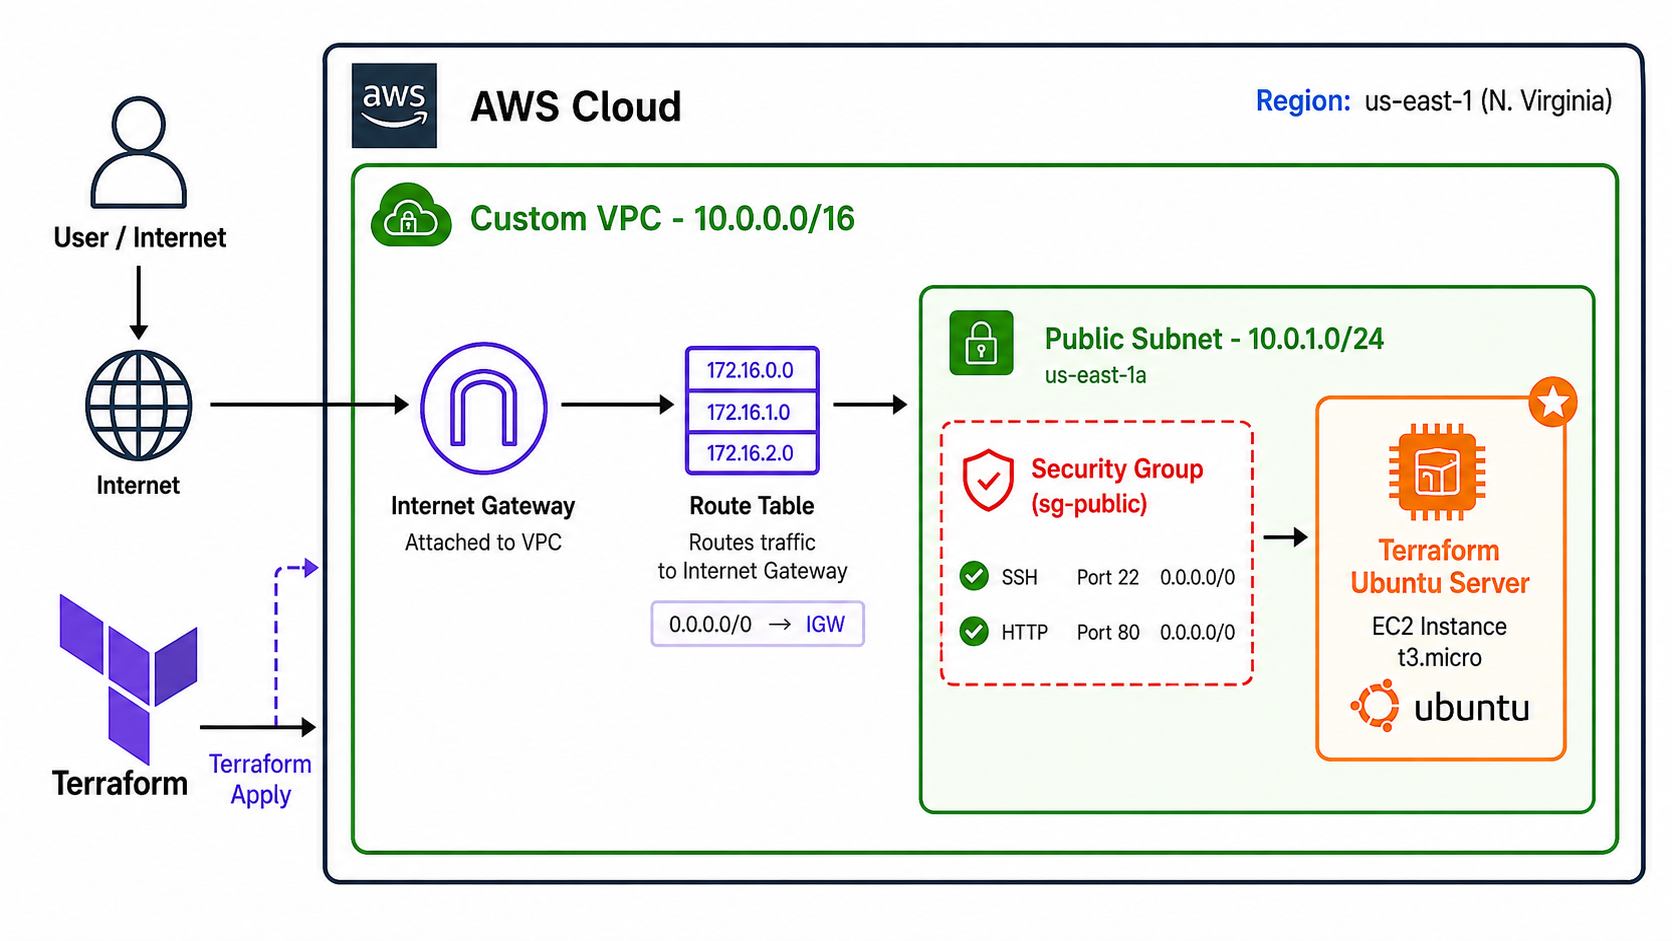
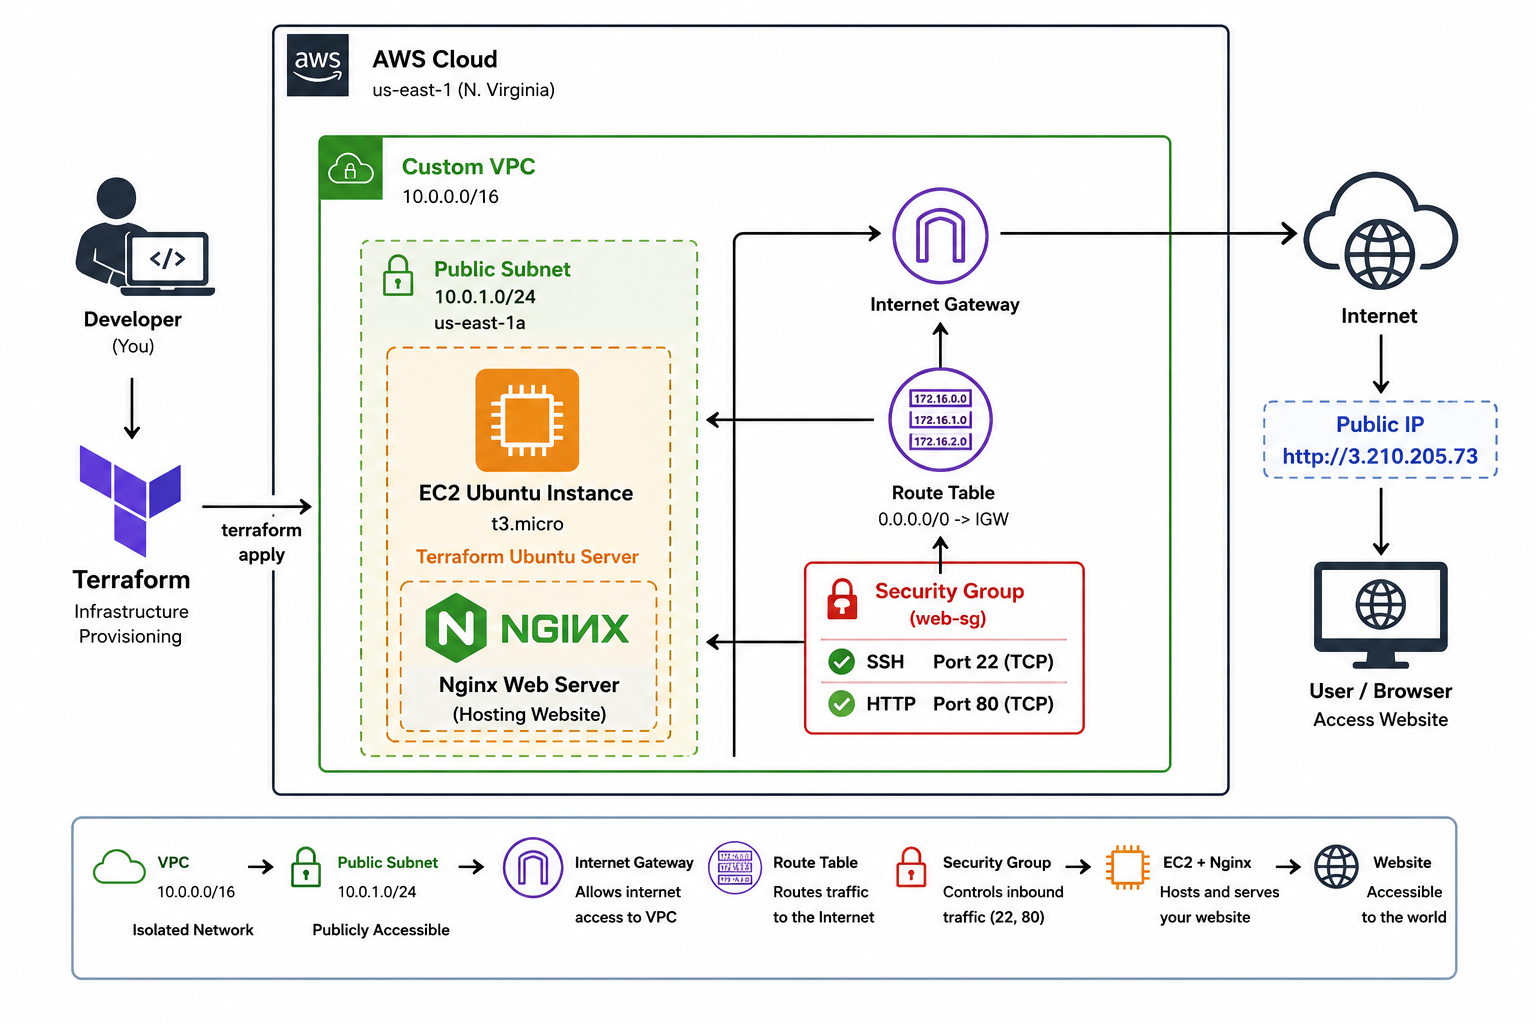
Updated README, architecture diagram, and deployment screenshots

Changed region(s): [[0.0312, 0.0, 1.0, 0.9554], [0.7188, 0.4315, 0.75, 0.4623]]

diff --git a/README.md b/README.md
@@ -1,8 +1,8 @@
-Terraform AWS VPC with Public Subnet and EC2 Instance :
+Terraform AWS VPC with Public Subnet, EC2 and Nginx Web Server :
 
 1) Project Overview :
 
-This project demonstrates how to provision AWS cloud infrastructure using Terraform.
+This project demonstrates how to provision AWS cloud infrastructure using Terraform. The infrastructure includes a custom VPC, public subnet, internet gateway, route table, security group, EC2 Ubuntu instance, and Nginx web server. I also deployed and hosted a basic website on the EC2 instance using Nginx. The goal of this project is to understand Infrastructure as Code (IaC), AWS networking, and automated cloud infrastructure deployment using Terraform. |
 
 The infrastructure includes:
 
@@ -12,6 +12,7 @@ The infrastructure includes:
 - Route Table
 - Security Group
 - EC2 Ubuntu Server
+- Nginx Web Server
 
 The goal of this project is to understand Infrastructure as Code (IaC) concepts and automate AWS resource creation using Terraform.
 
@@ -21,9 +22,10 @@ The goal of this project is to understand Infrastructure as Code (IaC) concepts 
 - AWS                =     Cloud Platform
 - VPC                =     Network Isolation
 - EC2                =     Virtual Server
-- Security Groups    =   Firewall Rules
+- Security Groups    =     Firewall Rules
 - VS Code            =     Code Editor
 - AWS CLI            =     AWS Authentication
+- Nginx              =     Web Server
 
 
 3) AWS Resources Created :
